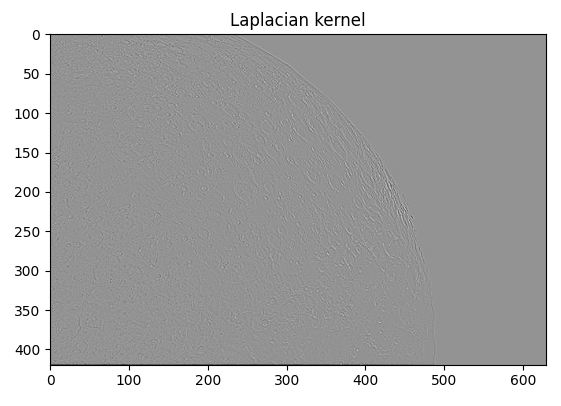
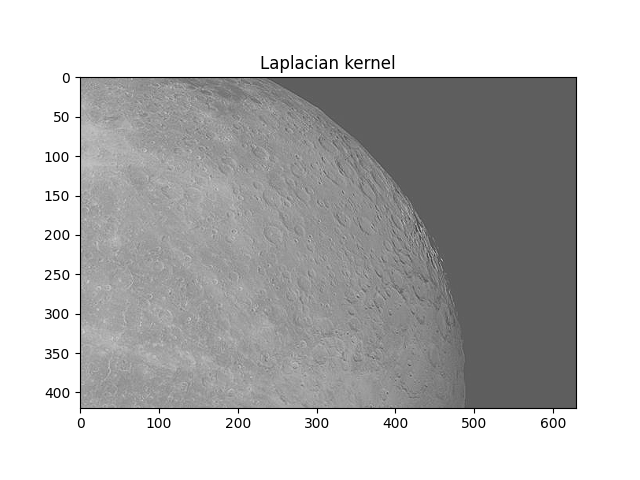
finished p1

diff --git a/homework/homework1/code/p1/p1c.py b/homework/homework1/code/p1/p1c.py
@@ -26,7 +26,7 @@ for i in tqdm.tqdm(range(0, w, step_size)):
                 x_idx = i + x
                 y_idx = j + y
 
-                # get the mirror pixel
+                # expand
                 if x_idx < 0:
                     x_idx = 0
                 elif x_idx >= w:
@@ -58,22 +58,7 @@ for i in tqdm.tqdm(range(0, w, step_size)):
                 x_idx = i + x
                 y_idx = j + y
 
-                # if x_idx < 0:
-                #     x_idx = w + x_idx
-                # elif x_idx >= w:
-                #     x_idx = x_idx - w
-                # if y_idx < 0:
-                #     y_idx = h + y_idx
-                # elif y_idx >= h:
-                #     y_idx = y_idx - h
-                # if x_idx < 0:
-                #     x_idx = -x_idx
-                # elif x_idx >= w:
-                #     x_idx = 2 * w - x_idx - 1
-                # if y_idx < 0:
-                #     y_idx = -y_idx
-                # elif y_idx >= h:
-                #     y_idx = 2 * h - y_idx - 1
+                # expand
                 if x_idx < 0:
                     x_idx = 0
                 elif x_idx >= w:
@@ -86,14 +71,14 @@ for i in tqdm.tqdm(range(0, w, step_size)):
                 output_tire[x_idx, y_idx] = prefix_gray[origin_tire[x_idx, y_idx]]
 
 # image after applying CLAHE
-plt.imshow(output_tire, cmap='gray')
-plt.title('CLAHE processed image')
-plt.show()
+fig, ax = plt.subplots(1, 2)
+ax[0].imshow(output_tire, cmap='gray')
+ax[0].set_title('CLAHE processed image')
 
 # histogram of applyed CIAHE image
 gray_num = count_gray_num(output_tire)
-plt.bar(range(256), gray_num)
-plt.title('histogram of CLAHE processed image')
-plt.xlabel('gray level')
-plt.ylabel('number of pixels')
+ax[1].bar(range(256), gray_num)
+ax[1].set_title('histogram of CLAHE processed image')
+ax[1].set_xlabel('gray level')
+ax[1].set_ylabel('number of pixels')
 plt.show()

diff --git a/homework/homework1/code/p1/p1b.py b/homework/homework1/code/p1/p1b.py
@@ -15,14 +15,15 @@ for i in range(w):
     for j in range(h):
         equalized_grain[i][j] = prefix_gray[int(origin_grain[i][j])]
 
+fig, ax = plt.subplots(1, 2)
+        
 # show the equalized image
-plt.imshow(equalized_grain, cmap='gray')
-plt.title('histogram equalized image')
-plt.show()
+ax[0].imshow(equalized_grain, cmap='gray')
+ax[0].set_title('histogram equalized image')
 
 # show the histogram of grain.tif after applying histogram equalization
-plt.bar(range(256), count_gray_num(equalized_grain))
-plt.xlabel('gray level')
-plt.ylabel('number of pixels')
-plt.title('histogram of histogram equalized image')
+ax[1].bar(range(256), count_gray_num(equalized_grain))
+ax[1].set_xlabel('gray level')
+ax[1].set_ylabel('number of pixels')
+ax[1].set_title('histogram of histogram equalized image')
 plt.show()

diff --git a/homework/homework1/code/p2/p2a.py b/homework/homework1/code/p2/p2a.py
@@ -9,14 +9,16 @@ origin_lena = plt.imread('./origin_images/moon.jpg')
 I_xx = np.array([[1, -2, 1]])
 x_direction = convolution(origin_lena, I_xx)
 x_direction = normalization(x_direction)
-plt.imshow(x_direction, cmap='gray')
-plt.title('x direction kernel')
-plt.show()
 
 # y direction
 I_yy = np.array([[1], [-2], [1]])
 y_direction = convolution(origin_lena, I_yy)
 y_direction = normalization(y_direction)
-plt.imshow(y_direction, cmap='gray')
-plt.title('y direction kernel')
+
+fig, ax = plt.subplots(1, 2)
+ax[0].imshow(x_direction, cmap='gray')
+ax[0].set_title('x direction kernel')
+
+ax[1].imshow(y_direction, cmap='gray')
+ax[1].set_title('y direction kernel')
 plt.show()

diff --git a/homework/homework1/code/p1/p1a.py b/homework/homework1/code/p1/p1a.py
@@ -4,8 +4,16 @@ from p1_count_gray_num import count_gray_num
 origin_grain = plt.imread('./origin_images/grain.tif')
 gray_num = count_gray_num(origin_grain)
 
-plt.bar(range(256), gray_num)
-plt.xlabel('gray level')
-plt.ylabel('number of pixels')
-plt.title('histogram of grain.tif')
+
+fig, ax = plt.subplots(1, 2)
+        
+# show the origin image
+ax[0].imshow(origin_grain, cmap='gray')
+ax[0].set_title('origin image')
+
+# show the histogram of grain.tif
+ax[1].bar(range(256), gray_num)
+ax[1].set_xlabel('gray level')
+ax[1].set_ylabel('number of pixels')
+ax[1].set_title('histogram of grain.tif')
 plt.show()

diff --git a/homework/homework1/code/p2/p2b.py b/homework/homework1/code/p2/p2b.py
@@ -6,9 +6,9 @@ from p2_convolution import convolution
 origin_lena = plt.imread('./origin_images/moon.jpg')
 w, h = origin_lena.shape
 
-# Laplacian_kernel
-Laplacian_kernel = np.array([[0, 1, 0], [1, -4, 1], [0, 1, 0]])
-Laplacian_image = convolution(origin_lena, Laplacian_kernel)
+# Laplacian_kernel_sharp
+Laplacian_kernel_sharp = np.array([[0, -1, 0], [-1, 5, -1], [0, -1, 0]])
+Laplacian_image = convolution(origin_lena, Laplacian_kernel_sharp)
 Laplacian_image = normalization(Laplacian_image)
 plt.imshow(Laplacian_image, cmap='gray')
 plt.title('Laplacian kernel')
